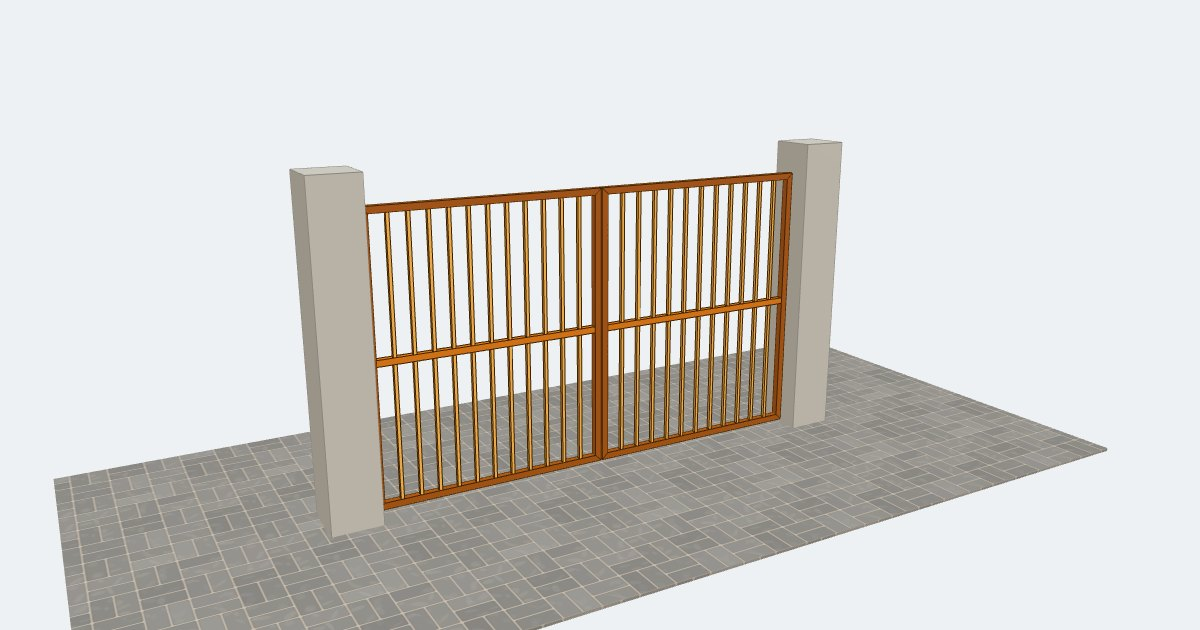
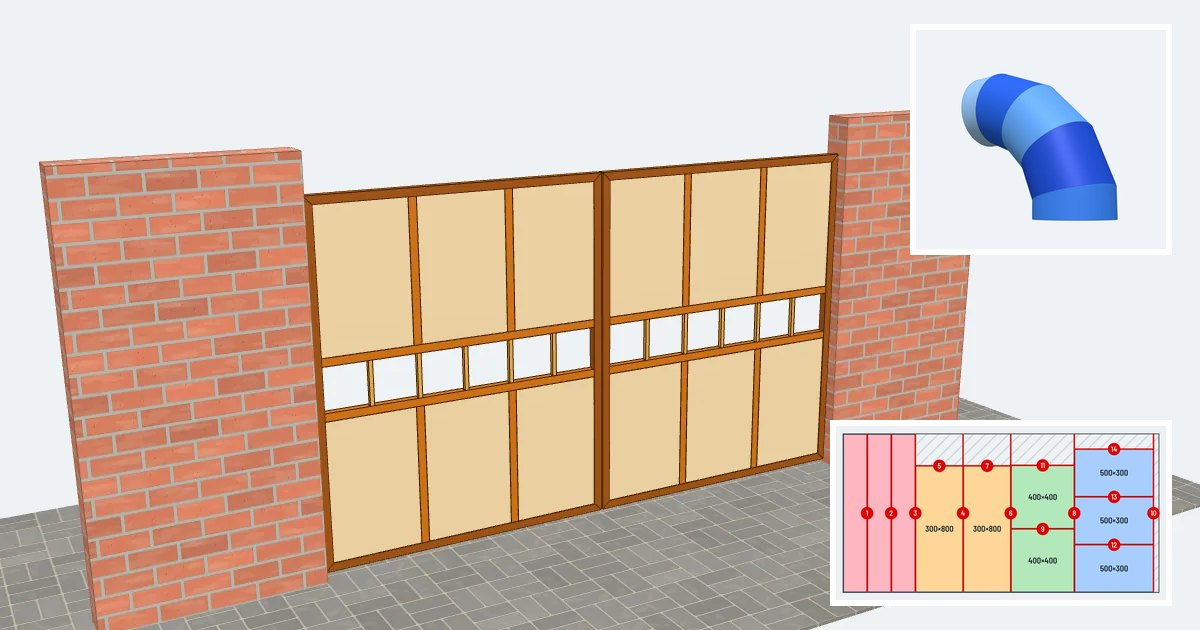
Taller: portada con el portón de paños, la curva por sectores y una plancha
- portada: composición (portón con travesaño doble y chapa en paños + curva por sectores +
  plancha de chapa negra con cortes numerados); en el celular las dos tarjetas van debajo
- og.jpg con la misma composición; el portón de barrotes pasa a la sección 3D
- guion: captura de la plancha (guillotina) y armado de og.jpg

Claude-Session: https://claude.ai/code/session_013weyQPG6YtoKWQFdj9JGZh

diff --git a/taller/index.html b/taller/index.html
@@ -36,6 +36,12 @@
 .tl-chips li{font-size:.88rem;color:var(--tenue);border:1px solid var(--linea);border-radius:999px;padding:4px 12px;background:var(--acero-2)}
 .tl-hero-img{margin:0;border-radius:14px;overflow:hidden;box-shadow:var(--sombra);background:#eef1f4;position:relative}
 .tl-hero-img img{width:100%;height:auto}
+/* portada: el portón grande y, encima, la curva y la plancha (26-nov, Max: que no parezca solo de portones) */
+.tl-hero-comp{position:relative;margin:0 22px 26px 0}
+.tl-hc{position:absolute;background:#fff;border:5px solid #fff;border-radius:10px;box-shadow:0 10px 28px rgba(26,31,36,.22)}
+.tl-hc-curva{width:27%;height:auto;top:-16px;right:-22px;background:#eef1f4}
+.tl-hc-plancha{width:44%;height:auto;bottom:-26px;right:-22px}
+.tl-hero-comp .tl-hero-img figcaption{top:12px;bottom:auto}
 .tl-hero-img figcaption,.tl-3d figcaption{position:absolute;left:12px;bottom:12px;background:rgba(255,255,255,.92);border-radius:999px;padding:5px 12px;font-size:.85rem;font-weight:600;color:#1a1f24}
 .tl-precio-hero{font-size:.95rem;color:var(--tenue);margin-top:6px}
 .tl-precio-hero strong{color:var(--texto)}
@@ -104,7 +110,11 @@
 @media (max-width:1000px){.tl-herr{grid-template-columns:1fr 1fr}.tl-cat{grid-template-columns:repeat(4,1fr)}}
 @media (max-width:760px){
   .tl-portada .envoltura,.tl-3d-grande,.tl-planes,.tl-pasos{grid-template-columns:1fr}
-  .tl-portada .tl-hero-img{order:-1}
+  .tl-portada .tl-hero-comp{order:-1}
+  .tl-hero-comp{margin:0;display:grid;grid-template-columns:2fr 3fr;gap:10px;align-items:center}
+  .tl-hero-comp .tl-hero-img{grid-column:1/-1}
+  .tl-hc{position:static;width:100%;border-width:3px;box-shadow:var(--sombra)}
+  .tl-hero-comp .tl-hero-img figcaption{top:auto;bottom:8px}
   .tl-3d-chapa{grid-template-columns:1fr 1fr}
   .tl-cat{grid-template-columns:repeat(3,1fr)}
   .tl-tabla th,.tl-tabla td{padding:10px 8px;font-size:.92rem}
@@ -178,9 +188,13 @@ src="https://www.facebook.com/tr?id=4773464836310644&ev=PageView&noscript=1"></n
         </ul>
         <p class="tl-precio-hero">PRO de pago único: <strong class="js-precio">20 USDT</strong></p>
       </div>
-      <figure class="tl-hero-img">
-        <img src="img/3d-porton.webp" width="1200" height="780" alt="Portón batiente de 2 hojas en 3D, entre dos columnas, armado con la lista de corte de la app" fetchpriority="high">
-        <figcaption>Portón batiente en la vista 3D de la app</figcaption>
+      <figure class="tl-hero-comp">
+        <div class="tl-hero-img">
+          <img src="img/3d-panos.webp" width="1200" height="780" alt="Portón de 2 hojas en 3D con chapa en paños y travesaño doble con barrotes, entre paredes de ladrillo" fetchpriority="high">
+          <figcaption>Portones, desarrollos de chapa y cortes de plancha</figcaption>
+        </div>
+        <img class="tl-hc tl-hc-curva" src="img/3d-codo_sectores.webp" width="800" height="700" alt="Curva redonda por sectores en 3D">
+        <img class="tl-hc tl-hc-plancha" src="img/plancha.webp" width="800" height="421" alt="Plancha de chapa negra con las piezas y los cortes numerados">
       </figure>
     </div>
   </section>
@@ -236,7 +250,7 @@ src="https://www.facebook.com/tr?id=4773464836310644&ev=PageView&noscript=1"></n
         <figure class="tl-3d"><img src="img/3d-reja.webp" width="800" height="800" loading="lazy" alt="Reja de ventana de rombos en 3D, sobrepuesta en el hueco de una pared"><figcaption>Reja de ventana en la pared</figcaption></figure>
       </div>
       <div class="tl-3d-grande">
-        <figure class="tl-3d"><img src="img/3d-panos.webp" width="1200" height="780" loading="lazy" alt="Portón de 2 hojas en 3D con chapa en paños, parantes y travesaño doble con barrotes en la franja, entre paredes de ladrillo"><figcaption>Travesaño doble y chapa en paños</figcaption></figure>
+        <figure class="tl-3d"><img src="img/3d-porton.webp" width="1200" height="780" loading="lazy" alt="Portón batiente de 2 hojas de barrotes en 3D, entre dos columnas, sobre piso de adoquín"><figcaption>Batiente de barrotes entre columnas</figcaption></figure>
         <div class="tl-3d-texto">
           <h3>Tu diseño de portón</h3>
           <p>Barrotes, diagonales, rombos, cuadrícula, cruz o chapa ciega. Travesaños repartidos o un travesaño doble al centro, con la franja libre o con sus propios barrotes.</p>

diff --git a/_herramientas/capturas_taller.py b/_herramientas/capturas_taller.py
@@ -82,14 +82,13 @@ def acercar(pasos):
 
 
 def porton(pg, base):
-    """Portada y og.jpg: batiente de 2 hojas de barrotes entre columnas."""
+    """Batiente de 2 hojas de barrotes entre columnas (sección 3D)."""
     portones(pg, base)
     pg.click(".p-tarjeta[data-v=batiente_2]")
     pg.fill("#p-ancho", "3000")
     pg.fill("#p-alto", "1800")
     esperar(pg)
     foto_3d(pg, "Columnas", "3d-porton.webp", 1200, 780, acercar(2))
-    foto_3d(pg, "Columnas", "og.jpg", 1200, 630, acercar(2))
 
 
 def corredizo(pg, base):
@@ -132,7 +131,50 @@ def panos(pg, base):
     foto_3d(pg, "Paredes", "3d-panos.webp", 1200, 780, acercar(2))
 
 
-CAPTURAS = {"porton": porton, "corredizo": corredizo, "reja": reja, "panos": panos}
+def plancha(pg, base):
+    """Plancha de chapa negra 2000 × 1000 con las piezas y los cortes numerados (guillotina, con la PRO)."""
+    pg.set_viewport_size({"width": 900, "height": 900})
+    pg.goto(base + "?pro=1#chapa")
+    pg.wait_for_selector("#chapas li")
+    pg.evaluate("""() => localStorage.setItem('optimax-guillotina', JSON.stringify({ corte: '3', rotar: true,
+      filas: [['500', '300', 4], ['300', '800', 2], ['400', '400', 2], ['150', '1000', 3], ['250', '250', 4]] }))""")
+    pg.goto(base + "#guillotina")
+    pg.wait_for_selector("#g-plancha option", state="attached")
+    etiqueta = pg.evaluate("""() => [...document.querySelectorAll('#g-plancha option')].map((o) => o.textContent)
+      .find((t) => t.includes('negra') && t.includes('1,5'))""")
+    pg.select_option("#g-plancha", label=etiqueta)
+    pg.wait_for_timeout(2500)
+    pg.wait_for_selector(".g-plancha svg")
+    tmp = os.path.join(SALIDA, "_plancha.png")
+    pg.locator(".g-plancha svg").first.screenshot(path=tmp)
+    img = Image.open(tmp).convert("RGB")
+    ancho = 800
+    img = img.resize((ancho, round(img.height * ancho / img.width)), Image.LANCZOS)
+    img.save(os.path.join(SALIDA, "plancha.webp"), quality=86, method=6)
+    os.remove(tmp)
+    print(f"  plancha.webp: {img.width} × {img.height}")
+
+
+def portada(pg, base):
+    """og.jpg (1200 × 630): el portón de paños grande + la curva por sectores y la plancha en tarjetas."""
+    fondo = Image.open(os.path.join(SALIDA, "3d-panos.webp")).convert("RGB")
+    og = fondo.resize((1200, 780), Image.LANCZOS).crop((0, 60, 1200, 690))
+    def tarjeta(nombre, w):
+        im = Image.open(os.path.join(SALIDA, nombre)).convert("RGB")
+        im = im.resize((w, round(im.height * w / im.width)), Image.LANCZOS)
+        borde = Image.new("RGB", (im.width + 12, im.height + 12), "#ffffff")
+        borde.paste(im, (6, 6))
+        return borde
+    curva = tarjeta("3d-codo_sectores.webp", 250)
+    pl = tarjeta("plancha.webp", 330)
+    og.paste(curva, (1200 - curva.width - 28, 24))
+    og.paste(pl, (1200 - pl.width - 28, 630 - pl.height - 24))
+    og.save(os.path.join(SALIDA, "og.jpg"), quality=86, optimize=True)
+    print("  og.jpg: 1200 × 630 (composición)")
+
+
+CAPTURAS = {"porton": porton, "corredizo": corredizo, "reja": reja, "panos": panos, "plancha": plancha,
+            "portada": portada}
 
 
 def main():

diff --git a/CLAUDE.md b/CLAUDE.md
@@ -25,9 +25,13 @@ Mismo píxel y `ox_eid` que el sitio. **La PRO se compra solo desde la app** (26
 dice que se compra en la app («Comprar PRO»), sin enlace de compra ni WhatsApp a ventas (la compra queda atada al
 equipo); por eso ya no hay `js-comprar` ni los eventos `Contact` / `TallerComprarPRO`.
 Imágenes en `taller/img/`: capturas reales de la app (`3d-*.webp` = vistas 3D, `cel-*.webp` = pantallas del celular,
-`og.jpg` = imagen para compartir) y las 12 figuras en `taller/img/fig/`. Las capturas 3D de portones (`3d-porton`,
-`3d-corredizo`, `3d-reja`, `3d-panos`, `og.jpg`) se sacan con `python _herramientas/capturas_taller.py --app RUTA/optimax-pwa`
-(Playwright sobre la PWA con `?pro=1`; `pro/` = el repo privado); si cambia la app, se vuelven a sacar. Las de chapa y
+`og.jpg` = imagen para compartir) y las 12 figuras en `taller/img/fig/`. **Portada** (26-nov, Max: que no parezca solo de
+portones): `.tl-hero-comp` = el portón con travesaño doble y chapa en paños (`3d-panos`) grande y, encima, la curva por
+sectores (`3d-codo_sectores`) y una plancha de chapa negra con los cortes numerados (`plancha.webp`); en el celular las
+dos van debajo. `og.jpg` es la misma composición en una imagen. Las capturas de portones (`3d-porton`, `3d-corredizo`,
+`3d-reja`, `3d-panos`), la plancha y `og.jpg` se sacan con `python _herramientas/capturas_taller.py --app RUTA/optimax-pwa`
+(Playwright sobre la PWA con `?pro=1`; `pro/` = el repo privado; `--solo portada` rearma `og.jpg` con las imágenes que
+ya están); si cambia la app, se vuelven a sacar. Las de chapa y
 `cel-*` no están en ese guion (se sacaron a mano el 25-nov). Datos de DEMO / PRO = los de la app (ver
 `estado-pwa.md` en el Project de la PWA): si cambian allá, cambiarlos acá. El enlace desde el sitio es `/taller/`
 (absoluto, así sirve también en `pt/`).
